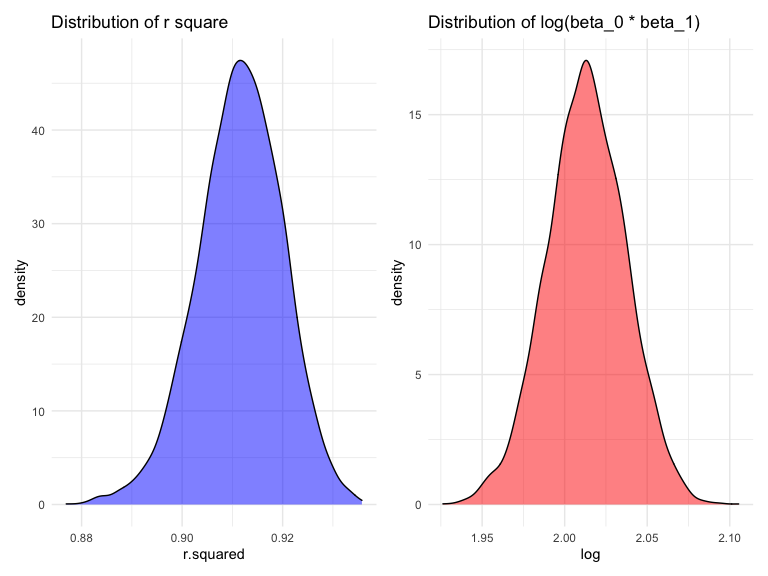
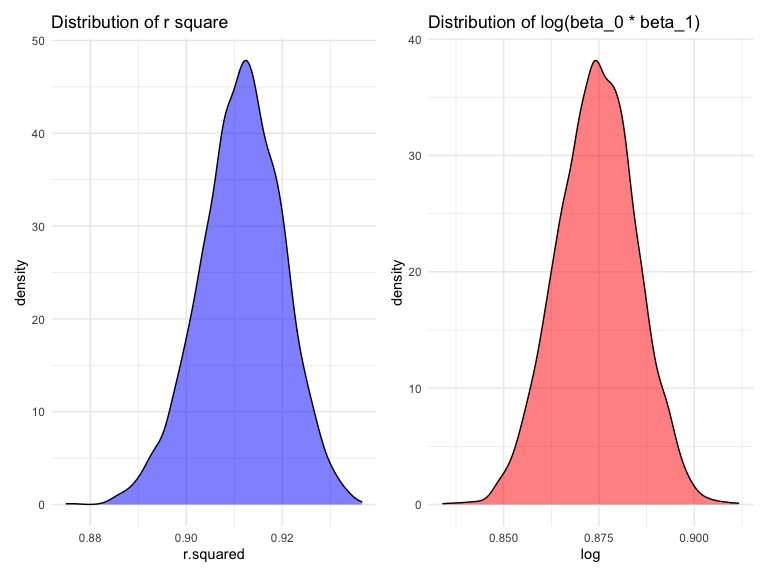
Text and adjustments added for Prob 2&3.

diff --git a/p8105_hw6_zy2442.md b/p8105_hw6_zy2442.md
@@ -207,35 +207,36 @@ t(table_NA) %>%
 Fit a model
 
 ``` r
+# Fit a model based on the combination of a data-driven model-building process and a hypothesized structure for the factors that underly birthweight. 
 model_fit = 
-  lm(bwt ~ mrace + smoken, data = baby_df)
+  lm(bwt ~ smoken + factor(mrace), data = baby_df)
 ```
 
 Show a plot of model residuals against fitted values
 
 ``` r
-smoken_plot = 
-  baby_df %>% 
+baby_df %>% 
   modelr::add_residuals(model_fit) %>% 
-  ggplot(aes(x = smoken, y = resid)) + 
-  geom_point()
-
-smoken_plot
+  modelr::add_predictions(model_fit) %>% 
+  ggplot(aes(x = pred, y = resid)) + 
+  geom_point() +
+  labs(
+    title = "Residual vs. fitted values",
+    x = "Fitted values",
+    y = "Residuals"
+  )
 ```
 
 <img src="p8105_hw6_zy2442_files/figure-gfm/unnamed-chunk-7-1.png" width="90%" />
 
-``` r
-mrace_plot = 
-  baby_df %>% 
-  modelr::add_residuals(model_fit) %>% 
-  ggplot(aes(x = mrace, y = resid)) + 
-  geom_point()
-
-mrace_plot
-```
-
-<img src="p8105_hw6_zy2442_files/figure-gfm/unnamed-chunk-7-2.png" width="90%" />
+Based on the Residual vs. Fitted values plot, we can see that the plot
+has random pattern and almost evenly distributed around 0, which
+suggests that the assumption that the relationship is linear is
+reasonable. Additionally, residuals form a horizontal ‘band’ above and
+below 0, which indicates the equal variance of the error terms.
+Otherwise, there are almost no ‘unusual’ values stand out from the
+random pattern, which indicates there might be no potential outliers.
+Therefore, this model follow the assumption of the homoscedasticity.
 
 Compare your model to two others:
 
@@ -249,7 +250,7 @@ Compare your model to two others:
 ``` r
 # Fit the models
 me_mod = lm(bwt ~ blength + gaweeks, data = baby_df)
-twi_mod = lm(bwt ~ bhead + blength + babysex, data = baby_df)
+twi_mod = lm(bwt ~ bhead*blength*babysex, data = baby_df)
 ```
 
 ``` r
@@ -265,9 +266,9 @@ cv_df =
 cv_df = 
   cv_df %>% 
   mutate(
-    model_fit  = map(train, ~lm(bwt ~ mrace + smoken, data = .x)),
+    model_fit  = map(train, ~lm(bwt ~ smoken + factor(mrace), data = .x)),
     me_mod     = map(train, ~lm(bwt ~ blength + gaweeks, data = .x)),
-    twi_mod  = map(train, ~lm(bwt ~ bhead + blength + babysex, data = .x))) %>% 
+    twi_mod  = map(train, ~lm(bwt ~ bhead*blength*babysex, data = .x))) %>% 
   mutate(
     rmse_modelfit = map2_dbl(model_fit, test, ~rmse(model = .x, data = .y)),
     rmse_me    = map2_dbl(me_mod, test, ~rmse(model = .x, data = .y)),
@@ -287,9 +288,12 @@ cv_df %>%
 
 <img src="p8105_hw6_zy2442_files/figure-gfm/unnamed-chunk-9-1.png" width="90%" />
 
-  - Based on the results, it is clear that the three-way interaction
-    model gains the best predictive accuracy even though it still has a
-    small portion of overlap with main effect model.
+Based on the results, it is clear that the three-way interaction model
+gains the best predictive accuracy even though it still has a small
+portion of overlap with main effect model. However, my model has the
+distinctly large prediction error, which indicates the multiple linear
+model of the combination of ‘mrace’ and ‘smoken’ has the least
+predictive accuracy.
 
 # Problem 3
 
@@ -387,7 +391,7 @@ beta_1_df =
 
 new_log_results = 
   bind_cols(beta_0_df, beta_1_df) %>% 
-  mutate(log = log(beta_0 * beta_1))
+  mutate(log = log10(beta_0 * beta_1))
 
 # Plot the distribution of the estimates for these two quantities
 plot1 = 
@@ -412,13 +416,13 @@ plot2 =
 
 <img src="p8105_hw6_zy2442_files/figure-gfm/unnamed-chunk-12-1.png" width="90%" />
 
-  - The distributions of these two quantities seems to be normal
-    distributed since both of these two plots are in bell shape with
-    only one peak.The distribution of r square seems to have smaller mu
-    since its peak’s value on the x-axis is smaller than that of the log
-    distribution. Additionally, the distribution of r square seems to
-    have smaller sigma value since its peak value on the y-axis is
-    greater than that of the log distribution.
+The distributions of these two quantities seems to be normal distributed
+since both of these two plots are in bell shape with only one peak.The
+distribution of log seems to have smaller mu since its peak’s value on
+the x-axis is smaller than that of the r squared distribution.
+Additionally, the distribution of r square seems to have smaller sigma
+value since its peak value on the y-axis is greater than that of the log
+distribution.
 
 Identify the 2.5% and 97.5% quantiles to provide a 95% confidence
 interval for r̂^ 2 and log(β̂ 0∗β̂ 1).
@@ -434,7 +438,7 @@ rsquare_results %>%
 
 | CI\_lower | CI\_upper |
 | --------: | --------: |
-| 0.8938262 | 0.9272061 |
+| 0.8935382 | 0.9276072 |
 
 ``` r
 # Provide a 95% confidence interval for log(beta_0 * beta_1)
@@ -447,9 +451,9 @@ new_log_results %>%
 
 | CI\_lower | CI\_upper |
 | --------: | --------: |
-|  1.965393 |   2.05937 |
+| 0.8542708 | 0.8941712 |
 
   - The 95% confidence interval for r square is identified as
-    (0.8938262, 0.9272061).
+    (0.8935382, 0.9276072).
   - The 95% confidence interval for log(β̂ 0∗β̂ 1) is identified as
-    (1.9653928, 2.0593696) .
+    (0.8542708, 0.8941712).
